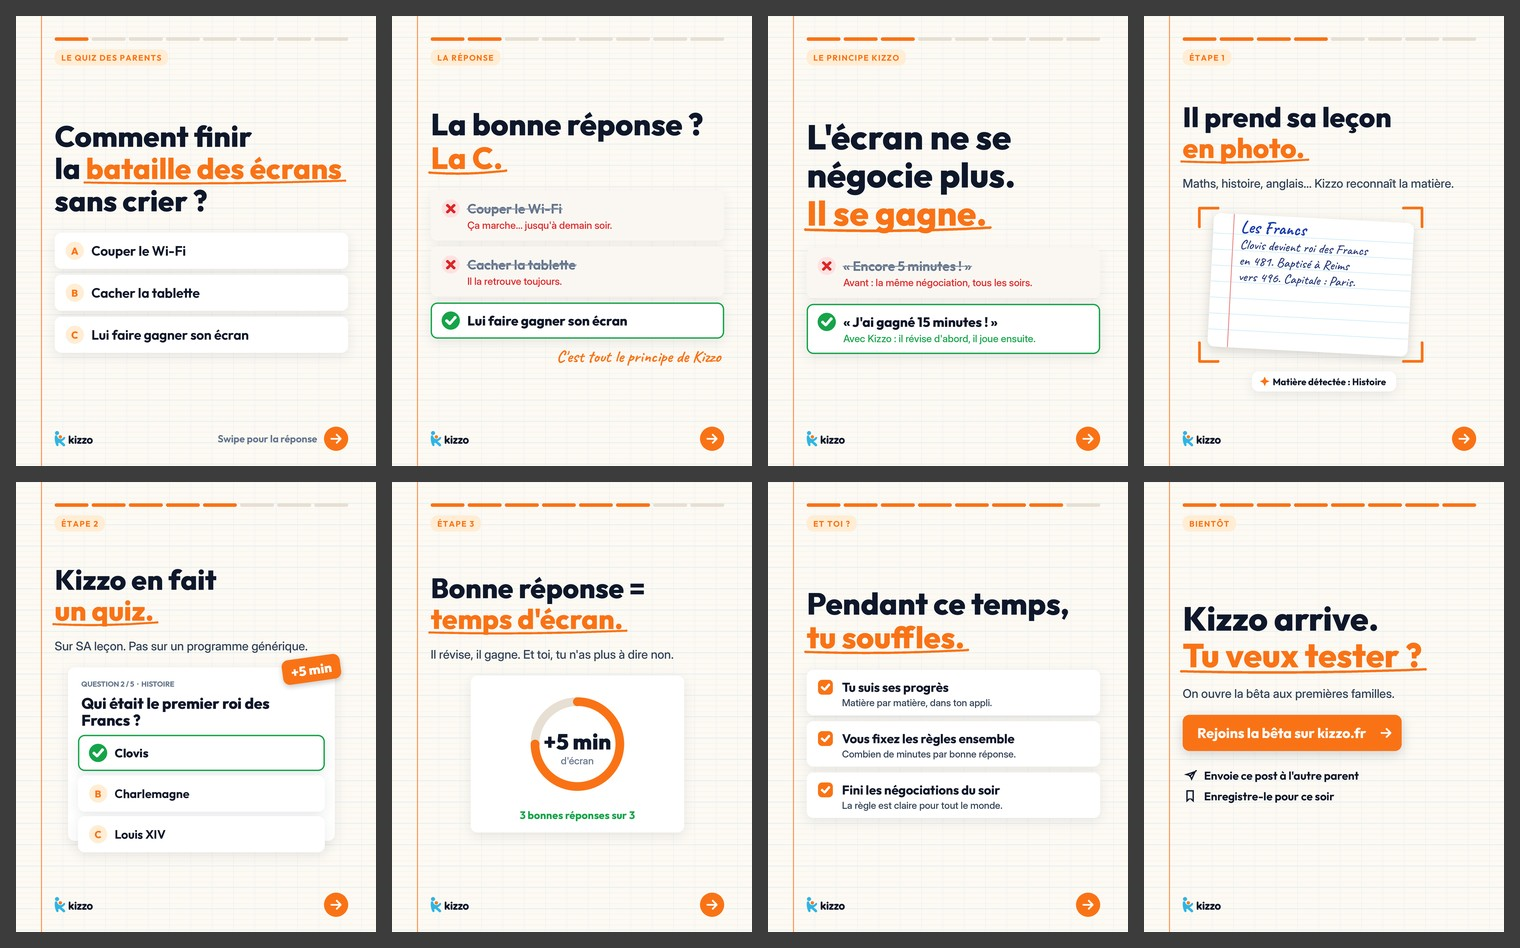
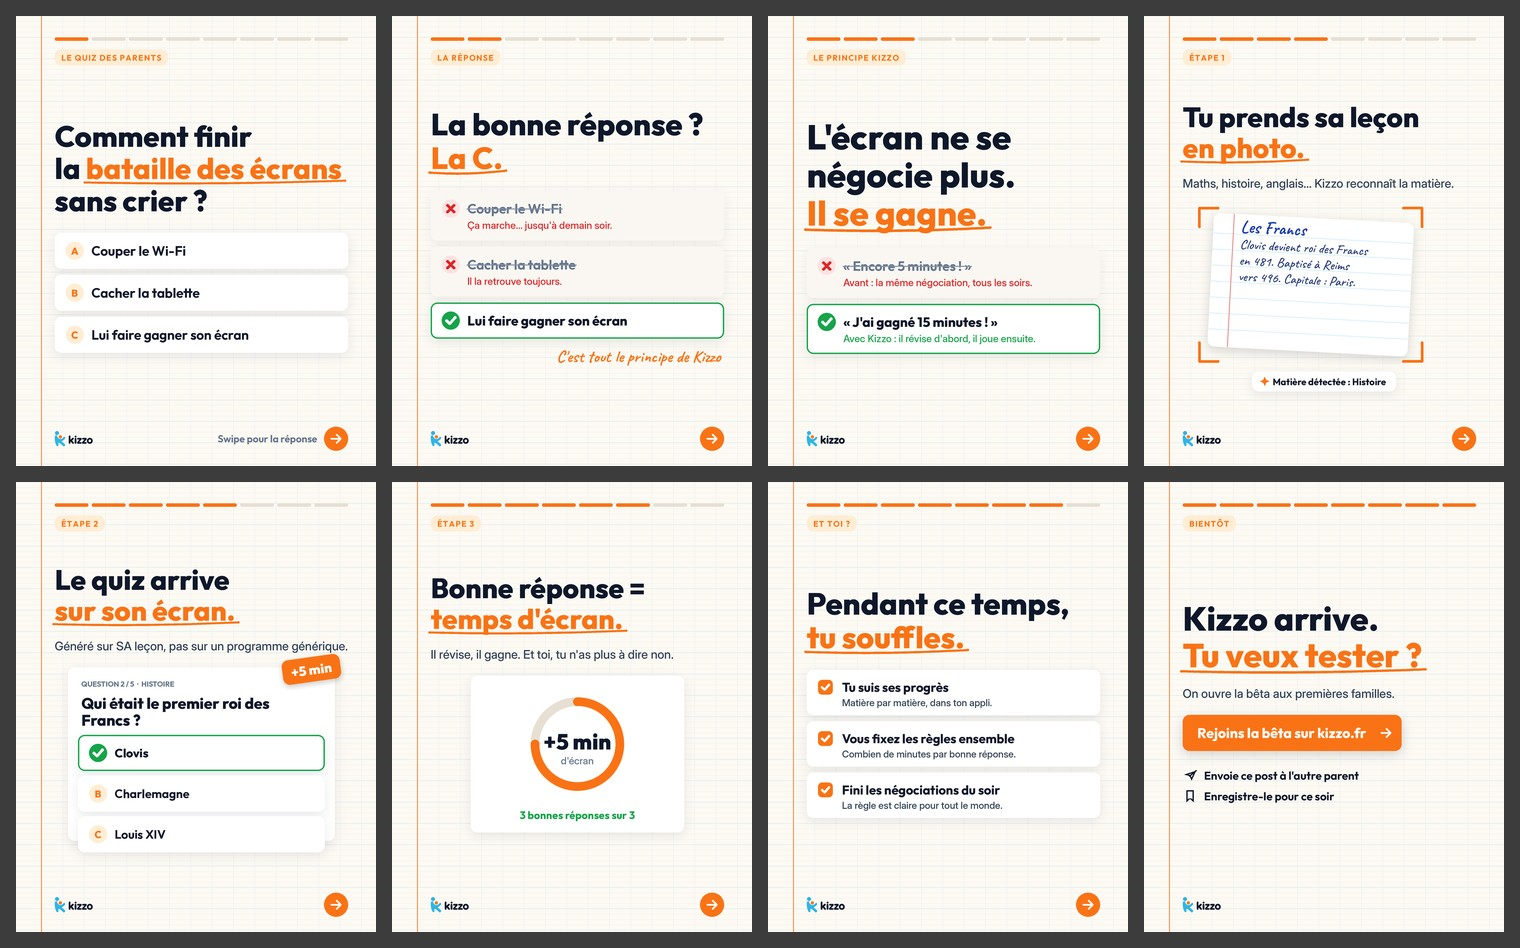
Réseaux sociaux : vidéo « Comment ça marche » produite, flux parent-scanne corrigé
- Correction produit partout : c'est le parent qui scanne la leçon, le quiz
  arrive sur l'écran de l'enfant (carrousel #1 re-rendu, bio, légendes,
  scripts Joe's et Famille Pépin, banque d'idées)
- Scripts : version 1 du format narration (conducteur voix off, coût réel,
  identifiants Higgsfield des références)
- Références : chambre de Sam, cahier et tablette, storyboard ; personnages
  et salon de la Famille Pépin

Claude-Session: https://claude.ai/code/session_018pUiaimG94LkQv8zNjwCv1

Changed region(s): [[0.0309, 0.5812, 0.2164, 0.7036], [0.773, 0.0918, 0.9276, 0.153]]

diff --git a/communication/social/SCRIPTS_VIDEO.md b/communication/social/SCRIPTS_VIDEO.md
@@ -31,6 +31,8 @@ Les coûts ci-dessous sont des coûts unitaires déjà vérifiés sur Higgsfield
 ### Look et personnages (les nôtres)
 **Le look.** Un film d'animation familial en 3D, avec une lumière chaude du soir. Les têtes-fruits sont expressives et mignonnes : grands yeux, aucune texture effrayante. Le salon français est cosy, avec des touches bleu nuit et orange, les couleurs Kizzo. Un seul décor : le salon des Pépin, le soir.
 
+**Références générées le 21 octobre** : dans `references/famille_pepin/` (les quatre personnages, le salon). Elles attendent la validation du look par Samuel.
+
 | Personnage | Apparence | Caractère |
 |---|---|---|
 | **Maman Fraise**, 38 ans | Tête de fraise avec un chignon de feuilles, pull bleu marine | Exaspérée mais drôle, jamais méchante |
@@ -61,9 +63,9 @@ Plafond avec 2 reprises au maximum : 86,5 crédits.
 
 ### Épisode 2 : « Le plan de Mamie Pomme » (environ 40 s), seulement si l'épisode 1 passe les seuils
 1. « Précédemment chez les Pépin… » : reprise de l'épisode 1, 0 crédit.
-2. Mamie Pomme tend la tablette orange à Kiwi, qui boude. MAMIE POMME : « Ta leçon d'histoire. Prends-la en photo. »
-3. Insert : la main de Kiwi photographie son cahier avec la tablette, flash.
-4. La carte quiz Kizzo animée au style « Cahier » (0 crédit) : « Qui était le premier roi des Francs ? »
+2. Mamie Pomme prend le cahier d'histoire de Kiwi, qui boude, et sort son téléphone. MAMIE POMME : « Ta leçon d'histoire ? Je la scanne. »
+3. Insert : le téléphone de Mamie Pomme scanne la page du cahier, flash.
+4. Sur la tablette orange de Kiwi apparaît la carte quiz Kizzo, animée au style « Cahier » (0 crédit) : « Qui était le premier roi des Francs ? »
 5. Kiwi réfléchit, puis lève le poing : « Clovis ! » Le sticker « +5 min » apparaît (0 crédit).
 6. Maman Fraise reste bouche bée. MAMIE POMME : « Il révise, il gagne. Et toi, tu ne débranches plus rien. »
 7. Clémentine bondit du canapé : « Moi aussi je veux un quiz ! »
@@ -72,7 +74,7 @@ Plafond avec 2 reprises au maximum : 86,5 crédits.
 **Coût exact : 6 plans IA × (0,25 + 7,5) = 46,5 crédits.**
 
 ### Pistes pour la suite, si la série prend
-- Clémentine veut tricher : elle photographie le cahier de CM2 de son frère et se plante.
+- Clémentine veut tricher : elle fait scanner à Maman le cahier de CM2 de son frère, et se retrouve avec un quiz de CM2.
 - Papa Ananas veut prouver qu'il est plus fort que Kiwi au quiz, et perd (« Même les parents révisent », la signature de la pub).
 - Le jour où Kiwi a demandé un quiz de plus.
 
@@ -100,8 +102,8 @@ Chaque réplique s'exporte en fichier séparé, en WAV.
 ### Texte de la voix off (environ 27 s)
 > Ton enfant relit sa leçon trois fois… et le lendemain, plus rien ?
 > C'est normal : relire, c'est passif. Le cerveau retient ce qu'on l'oblige à retrouver.
-> Avec Kizzo, il prend sa leçon en photo… et l'appli en fait un quiz. Sur SA leçon.
-> Chaque bonne réponse débloque du temps d'écran.
+> Avec Kizzo, tu prends sa leçon en photo… et le quiz arrive direct sur son écran. Sur SA leçon.
+> Chaque bonne réponse lui débloque du temps d'écran.
 > Il révise vraiment. Et toi, tu n'as plus rien à négocier.
 > Kizzo. L'écran se gagne.
 
@@ -117,22 +119,58 @@ Chaque réplique s'exporte en fichier séparé, en WAV.
 - A : « Ton enfant relit sa leçon trois fois… et le lendemain, plus rien ? »
 - B : « Relire sa leçon, ça ne sert presque à rien. Voilà pourquoi. »
 
-### Plans
-| # | Image | Source |
+### Version 1 produite le 21 octobre (27,2 s, 1080 × 1920, 24 i/s, sans musique ni sous-titres)
+
+**Ce qu'on a repris de Joe's Pasta**, après analyse plan par plan des deux vidéos :
+- **Rythme** : environ 12 plans en 34 s, chaque plan dure de 2 à 3 s.
+- **Mouvement** : la caméra bouge toujours un peu (lente poussée, léger flottement).
+- **Angles variés** :
+  - plan moyen à hauteur d'yeux ;
+  - par-dessus l'épaule ;
+  - plongée verticale sur les mains ;
+  - contre-plongée avec premier plan net.
+- **Transitions dans le mouvement** : un filé rapide (« whip ») et un flash.
+- **Lumière** : chaude et naturelle, peu de profondeur de champ.
+
+**Fichiers :**
+- `Kizzo_comment_ca_marche_v1.mp4` : avec l'écran du quiz sur la tablette, le sticker « +5 min » et le carton de fin ;
+- `Kizzo_comment_ca_marche_plans_seuls_v1.mp4` : les 8 plans seuls, 22,7 s.
+
+**Références** : dans `references/comment_ca_marche/` (chambre, cahier et tablette, storyboard).
+
+| Temps | Plan | Voix off à caler dessus |
 |---|---|---|
-| 1 | Sam à son bureau le soir, relit son cahier, la joue dans la main, s'ennuie | IA |
-| 2 | Gros plan : son regard glisse du cahier vers la tablette orange posée sur le lit | IA |
-| 3 | Claire dans l'encadrement de la porte, bras croisés, soupire | IA |
-| 4 | Insert : la main de Sam tient la tablette orange au-dessus du cahier, flash de l'appareil photo | IA |
-| 5 | La carte quiz Kizzo animée, au style « Cahier » | 0 crédit |
-| 6 | Sam répond, petit poing de victoire, grand sourire | IA |
-| 7 | Le sticker « +5 min » et l'anneau de temps d'écran | 0 crédit |
-| 8 | Claire s'assoit sur le lit, elle et Sam se tapent dans la main | IA |
-| 9 | Le carton Kizzo : « L'écran se gagne. Bêta sur kizzo.fr » | 0 crédit |
+| 0,0-2,6 | Sam s'ennuie à son bureau, le soir (poussée lente) | « Ton enfant relit sa leçon trois fois… » |
+| 2,6-4,8 | Le lendemain au petit-déjeuner, par-dessus l'épaule de Claire : Sam hausse les épaules | « et le lendemain, plus rien ? » |
+| 4,8-7,2 | Plongée sur le cahier : le doigt de Sam relit les lignes | « C'est normal : relire, c'est passif. » |
+| 7,2-10,2 | (whip) Tablette orange nette sur le lit, Sam au loin qui la regarde | « Le cerveau retient ce qu'on l'oblige à retrouver. » |
+| 10,2-12,9 | Par-dessus l'épaule de Claire : elle scanne la leçon avec son téléphone, flash | « Avec Kizzo, tu prends sa leçon en photo… » |
+| 12,9-14,4 | (flash) Le quiz arrive sur la tablette orange de Sam | « et le quiz arrive direct sur son écran. » |
+| 14,4-17,1 | Sam lit la question, se mord la lèvre, sourit | « Sur SA leçon. » |
+| 17,1-20,1 | (whip) Sam lève le poing, sticker « +5 min » | « Chaque bonne réponse lui débloque du temps d'écran. » |
+| 20,1-24,2 | Claire et Sam se tapent dans la main, elle lui ébouriffe les cheveux | « Il révise vraiment. Et toi, tu n'as plus rien à négocier. » |
+| 24,2-27,2 | Carton Kizzo : « L'écran se gagne. », « Bêta ouverte · kizzo.fr » | « Kizzo. L'écran se gagne. » |
 
-**Coût exact : 6 plans IA × (0,25 + 7,5) = 46,5 crédits.**
+**Sous-titres** : les placer dans la zone de 1500 à 1650 px de haut pour ne pas couvrir la tablette du quiz. Sur le carton de fin, inutile d'en ajouter.
 
-Ce format remplace le pack de 4 plans de mains à 30 crédits proposé pour la semaine 44 : il contient déjà l'insert de la photo du cahier.
+**Logique produit** : c'est le parent qui scanne la leçon, et le quiz arrive directement sur l'écran de l'enfant.
+
+**Coût réel : 55,5 crédits.**
+- 1 crédit de références.
+- 5,5 crédits d'images de départ.
+- 49 crédits de vidéo (Kling 3.0 pro, en 1080p).
+- Dont 5,25 crédits perdus : le premier plan de scan montrait Sam qui photographiait sa leçon. Il a été refait avec Claire.
+
+**Identifiants Higgsfield à réutiliser** (références, sans nouvel envoi) :
+| Élément | Identifiant |
+|---|---|
+| Fiche de Sam | `3543f91e-9654-4547-86d6-b179425384b3` |
+| Fiche de Claire | `ae81c53d-3623-4187-afd9-8ea427f80854` |
+| Salle à manger | `f0789874-cf57-4ae3-8329-83b0141782e5` |
+| Chambre de Sam | `f1a5e9c0-a4fd-4bb9-af88-1cbb531c671e` |
+| Cahier et tablette | `4ca6787f-15f6-4ef2-a8ad-c71717650a39` |
+| Famille Pépin, personnages | `bd6cb439-9d7f-43a7-83be-aeccb24c95e4` |
+| Famille Pépin, salon | `b1f0bf9e-f5d8-476a-9b7b-500527741a1b` |
 
 ---
 
@@ -140,7 +178,7 @@ Ce format remplace le pack de 4 plans de mains à 30 crédits proposé pour la s
 Le cadre ci-dessous est à remplir avec la vraie histoire de Samuel. **On n'invente rien.**
 1. **Accroche (3 s)** : « J'ai 23 ans, pas d'enfant… et je construis une appli pour les parents. »
 2. **Le déclic (10 s)** : le vrai moment qui a lancé Kizzo.
-3. **Ce qu'on construit (10 s)** : « Ton enfant prend sa leçon en photo, l'appli en fait un quiz, chaque bonne réponse débloque du temps d'écran. »
+3. **Ce qu'on construit (10 s)** : « Tu scannes la leçon de ton enfant, le quiz arrive directement sur son écran, et chaque bonne réponse lui débloque du temps d'écran. »
 4. **Ce qu'on cherche (5 s)** : « On ouvre la bêta aux premières familles. »
 5. **Appel (3 s)** : « Lien en bio. Et dis-moi en commentaire : c'est quoi, ta pire bataille d'écran ? »
 

diff --git a/communication/social/PLANNING.md b/communication/social/PLANNING.md
@@ -23,7 +23,7 @@
 | 10 | Mar 27 | 20h45 | La pub | La pub complète en 9:16, avec l'atterrissage « BAM » en ouverture et l'appel à la bêta | Conversion | 0 | En attente de l'avis de Samuel sur la version 9:16 |
 | 11 | Mer 28 | 20h45 | Famille Pépin, ép. 1 | « Encore 5 minutes » | Découverte | 71 | Feu vert requis (sinon : POV #2 avancé) |
 | 12 | Jeu 29 | 20h45 | POV du soir #2 | « Je compte jusqu'à 3… et j'ai aucun plan pour le 3 » | Découverte | 0 | Je produis |
-| 13 | Ven 30 | 20h45 | Comment ça marche #1 | L'épisode 2 de la Famille Pépin si l'épisode 1 passe les seuils. Sinon : « Ton enfant relit sa leçon trois fois… » | Conversion | 46,5 | Feu vert requis |
+| 13 | Ven 30 | 20h45 | Comment ça marche #1 | « Ton enfant relit sa leçon trois fois… » (format narration, voir `SCRIPTS_VIDEO.md` §2) | Conversion | 55,5 (dépensés) | Vidéo prête (v1) ; voix off, musique et sous-titres par Samuel |
 | 14 | Sam 31 | 10h | Carrousel du week-end #4 | « Les repères 3-6-9-12 de Serge Tisseron, expliqués » (source vérifiée, on le mentionne) | Valeur | 0 | Je produis |
 | 15 | Sam 31 | 12h30 | Quiz des parents bonus | Spécial Halloween : « D'où vient Halloween ? » | Découverte | 0 | Je produis |
 | 16 | Dim 1er | 11h | Carrousel Cahier #5 | « Rentrée demain : 5 règles d'écran pour reprendre le rythme » | Valeur | 0 | Je produis |
@@ -48,7 +48,7 @@
 > Comment finir la bataille des écrans sans crier ? 🤔
 > Réponds A, B ou C en commentaire AVANT de swiper 👇
 >
-> Avec Kizzo, ton enfant prend sa leçon en photo, l'appli en fait un quiz, et chaque bonne réponse débloque du temps d'écran. Fini les « encore 5 minutes ».
+> Avec Kizzo, tu scannes sa leçon, l'appli en fait un quiz qui arrive directement sur son écran, et chaque bonne réponse lui débloque du temps d'écran. Fini les « encore 5 minutes ».
 >
 > 📌 Enregistre-le pour ce soir
 > 👀 Envoie-le à l'autre parent
@@ -62,7 +62,7 @@
 - **Son** : un son calme de la bibliothèque commerciale, à volume bas.
 
 **À la mise en ligne**
-- **Texte alternatif Instagram** (Paramètres avancés) : « Carrousel Kizzo sur fond de cahier d'école : un quiz pour les parents sur la bataille des écrans, puis les trois étapes de Kizzo : photo de la leçon, quiz, temps d'écran débloqué. »
+- **Texte alternatif Instagram** (Paramètres avancés) : « Carrousel Kizzo sur fond de cahier d'école : un quiz pour les parents sur la bataille des écrans, puis les trois étapes de Kizzo : le parent scanne la leçon, le quiz arrive sur l'écran de l'enfant, chaque bonne réponse débloque du temps d'écran. »
 - **Commentaire épinglé** : « Team A, B ou C ? 😇 »
 - **Épinglage** : épingler le post sur le profil.
 - **Réponses** : répondre aux 10 premiers commentaires dans l'heure.

diff --git a/communication/social/STRATEGIE_IG_TIKTOK.md b/communication/social/STRATEGIE_IG_TIKTOK.md
@@ -38,7 +38,7 @@ Quand on publie un deuxième post dans la journée, à 12h30, on recycle un cont
 
 ## Style visuel « Le Cahier » (le nôtre)
 Les carrousels et les couvertures de Reels partagent un même système. Comme la grille du profil reste cohérente, on reconnaît Kizzo d'un coup d'œil.
-- **Fond** : papier crème à grands carreaux Seyès, avec des lignes bleu ciel reprises du bleu du logo et une marge orange à la place de la marge rouge des cahiers. C'est l'école française, que tous les parents reconnaissent, et c'est le cahier que l'enfant photographie dans Kizzo.
+- **Fond** : papier crème à grands carreaux Seyès, avec des lignes bleu ciel reprises du bleu du logo et une marge orange à la place de la marge rouge des cahiers. C'est l'école française, que tous les parents reconnaissent, et c'est le cahier que le parent scanne dans Kizzo.
 - **Chaque carrousel s'ouvre sur une question.** Le quiz, c'est le cœur de l'app, et c'est notre signature.
 - **Barre de progression de quiz** en haut (un segment par visuel), étiquette de rubrique en orange.
 - **Titres** : Outfit 800 bleu nuit, en casse normale. Les mots clés sont en orange, soulignés d'un coup de stylo.
@@ -60,7 +60,7 @@ Les carrousels et les couvertures de Reels partagent un même système. Comme la
 - **Nom du profil Instagram** (le nom est indexé par la recherche Instagram) : « Kizzo · Écrans & devoirs ».
 - **Bio** (moins de 150 caractères) :
   > L'écran, ça se gagne 📚
-  > Ton enfant photographie sa leçon, Kizzo en fait un quiz, chaque bonne réponse débloque de l'écran.
+  > Tu scannes sa leçon, Kizzo en fait un quiz sur son écran. Chaque bonne réponse débloque du temps d'écran.
   > Bêta ouverte 👇
 - **Lien** : vers kizzo.fr, avec une balise de suivi (`?utm_source=instagram&utm_medium=bio`, et `utm_source=tiktok` sur TikTok) pour savoir d'où viennent les inscriptions.
 - **Stories à la une** : « Kizzo ? », « Comment ça marche », « Bêta », « Conseils », « Coulisses ». Les couvertures suivent le style Cahier ; je les produis.

diff --git a/communication/social/BANQUE_IDEES.md b/communication/social/BANQUE_IDEES.md
@@ -49,7 +49,7 @@ Une phrase de parent que tout le monde reconnaît, posée sur un plan d'ambiance
 ## La Famille Pépin (mercredi, épisode de 30 à 40 s)
 Voir `SCRIPTS_VIDEO.md`. Pilote d'abord, avec un critère d'arrêt.
 1. « Encore 5 minutes » : le Wi-Fi coupé, et Mamie Pomme arrive.
-2. « Le plan de Mamie Pomme » : la photo de la leçon, le quiz, et « Moi aussi je veux un quiz ! ».
+2. « Le plan de Mamie Pomme » : elle scanne la leçon, le quiz arrive sur la tablette de Kiwi, et « Moi aussi je veux un quiz ! ».
 3. « Clémentine veut tricher » : elle prend le cahier de CM2 de son frère et rate tout.
 4. « Papa Ananas contre le quiz » : il veut battre Kiwi et perd. « Même les parents révisent. »
 5. « Le jour où Kiwi a demandé un quiz de plus. »

diff --git a/communication/social/carrousels/README.md b/communication/social/carrousels/README.md
@@ -19,7 +19,7 @@ Un dossier par carrousel. Chaque dossier contient :
 |---|---|
 | `quiz` | Question et cartes-réponses A, B, C (la couverture) |
 | `reveal` | Réponses corrigées : `bad` est barré avec une croix, `good` est en vert avec une coche, et on peut ajouter une note en dessous |
-| `notebook` | Page de cahier photographiée, avec viseur et « Matière détectée » |
+| `notebook` | Page de cahier scannée, avec viseur et « Matière détectée » |
 | `quizcard` | Carte de quiz façon appli, avec le sticker « +5 min » |
 | `ring` | Anneau de temps d'écran débloqué |
 | `check` | Liste cochée, avec titre et sous-titre |
